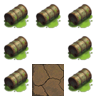
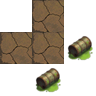
feat: added animation

diff --git a/maze_visualizer.py b/maze_visualizer.py
@@ -6,9 +6,11 @@
 #  By: rshikder, lbordana                        +#+  +:+       +#+         #
 #                                              +#+#+#+#+#+   +#+            #
 #  Created: 2026/03/21 03:32:25 by lbordana        #+#    #+#               #
-#  Updated: 2026/03/24 05:46:03 by lbordana        ###   ########.fr        #
+#  Updated: 2026/03/24 18:42:59 by lbordana        ###   ########.fr        #
 #                                                                           #
 # ************************************************************************* #
+
+from cProfile import label
 
 from mlx import Mlx
 from typing import List
@@ -42,18 +44,21 @@ class MazeVisualizer(Mlx):
                                            "A_maze_ing : Game poetry")
         self.grid = []
 
+    # def generate_menu
+
     def generate_floor(self):
         start_pos = (int((self.width / 2) - ((self.maze_width / 2) * self.tilesize * 2)),
                      int(500))
-        patchwork = Image.open(f"themes/{self.theme}/path_patch.png")
-        path = Image.new('RGBA',
+        path_patch = Image.open(f"themes/{self.theme}/path_patch.png").convert('RGBA')
+        wall_patch = Image.open(f"themes/{self.theme}/wall_patch.png").convert('RGBA')
+        path_wall_patch = Image.alpha_composite(path_patch, wall_patch)
+        path = Image.new('RGB',
                          ((self.maze_width * 2 + 1) * self.tilesize,
-                          (self.maze_height * 2 + 1) * self.tilesize),
-                         (255, 0, 0, 0))
+                          (self.maze_height * 2 + 1) * self.tilesize))
         path_width, path_height = path.size
         for w in range(0, path_width, self.tilesize):
             for h in range(0, path_height, self.tilesize):
-                path.paste(patchwork, (w, h))
+                path.paste(path_wall_patch, (w, h))
         path.save(f"themes/{self.theme}/path.png")
         new_path = image_constitution(f"themes/{self.theme}/path.png", self)
         self.mlx_put_image_to_window(self.mlx_ptr, self.win_ptr, new_path.id, start_pos[0], start_pos[1])
@@ -69,37 +74,37 @@ class MazeVisualizer(Mlx):
         for d in data:
             binary = bin(int(d[2], 16))[2:].zfill(4)
             if appending is True:
+                for letter in '0123456789ABCDEF':
+                    try:
+                        self.grid.pop(self.grid.index([d[0], d[1], letter]))
+                    except Exception:
+                        continue
                 self.grid.append([d[0], d[1], d[2]])
+                self.grid = sorted(self.grid, key=lambda item: int(f'{item[0]}{item[1]}'))
             pos = [start_pos[0] + d[0] * (self.tilesize * 2),
                    start_pos[1] + d[1] * (self.tilesize * 2)]
             wall_tile = Image.open(f"themes/{self.theme}/wall_patch.png")
             path_tile = Image.open(f"themes/{self.theme}/path_patch.png")
             wall_mask = Image.new('RGBA', (self.tilesize * 3,
                                            self.tilesize * 3), (255, 0, 0, 0))
-            wall_mask.paste(path_tile, (self.tilesize, 0))
-            wall_mask.paste(path_tile, (self.tilesize * 2, self.tilesize))
-            wall_mask.paste(path_tile, (self.tilesize, self.tilesize * 2))
-            wall_mask.paste(path_tile, (0, self.tilesize))
-            if int(binary[-1]) == 1:
-                wall_mask.paste(wall_tile, (0, 0))
-                wall_mask.paste(wall_tile, (self.tilesize, 0))
-                wall_mask.paste(wall_tile, (self.tilesize * 2, 0))
-            if int(binary[-2]) == 1:
-                wall_mask.paste(wall_tile, (self.tilesize * 2, 0))
-                wall_mask.paste(wall_tile, (self.tilesize * 2, self.tilesize))
-                wall_mask.paste(wall_tile, (self.tilesize * 2, self.tilesize * 2))
-            if int(binary[-3]) == 1:
-                wall_mask.paste(wall_tile, (0, self.tilesize * 2))
-                wall_mask.paste(wall_tile, (self.tilesize, self.tilesize * 2))
-                wall_mask.paste(wall_tile, (self.tilesize * 2, self.tilesize * 2))
-            if int(binary[-4]) == 1:
-                wall_mask.paste(wall_tile, (0, 0))
-                wall_mask.paste(wall_tile, (0, self.tilesize))
-                wall_mask.paste(wall_tile, (0, self.tilesize * 2))
+            wall_mask.paste(wall_tile, (self.tilesize, 0))
+            wall_mask.paste(wall_tile, (self.tilesize * 2, self.tilesize))
+            wall_mask.paste(wall_tile, (self.tilesize, self.tilesize * 2))
+            wall_mask.paste(wall_tile, (0, self.tilesize))
+            wall_mask.paste(path_tile, (self.tilesize, self.tilesize))
+            if int(binary[-1]) == 0:
+                wall_mask.paste(path_tile, (self.tilesize, 0))
+            if int(binary[-2]) == 0:
+                wall_mask.paste(path_tile, (self.tilesize * 2, self.tilesize))
+            if int(binary[-3]) == 0:
+                wall_mask.paste(path_tile, (self.tilesize, self.tilesize * 2))
+            if int(binary[-4]) == 0:
+                wall_mask.paste(path_tile, (0, self.tilesize))
             wall_mask.save(f"themes/{self.theme}/wall.png")
             walls = image_constitution(f"themes/{self.theme}/wall.png", self)
             self.mlx_put_image_to_window(self.mlx_ptr, self.win_ptr, walls.id, pos[0], pos[1])
             self.mlx_destroy_image(self.mlx_ptr, walls.id)
+            yield None
 
     def generate_ways(self, data=None):
         start = (int((self.width / 2) - ((self.maze_width / 2) * self.tilesize * 2)),
@@ -155,34 +160,28 @@ def change_theme(keynum, m: MazeVisualizer):
             m.theme = theme[0]
         base_assets(m)
         m.generate_floor()
-        m.generate_walls()
 
 
-def generator():  # Temporary output simalution of the algorithm
-    with open('output_maze.txt', 'r') as output:
-        data = [hex for hex in output.read().split('\n')[:-5]]
-    for row in data:
-        for col in row:
-            yield col
+def generate_maze(data: tuple):
+    m, gen = data
+    try:
+        for _ in range(10):
+            next(gen)
+    except StopIteration:
+        pass
 
 
 def maze_visualizer() -> None:
     width = 3840
     height = 2160
-    theme = 'classic'
+    theme = 'pokemon'
     m = MazeVisualizer(width, height, theme)
     m.mlx_key_hook(m.win_ptr, change_theme, m)
     base_assets(m)
-    # m.mlx_sync(m.mlx_ptr, m.SYNC_WIN_COMPLETED, m.win_ptr)
     m.generate_floor()
-    # with open('output_maze.txt', 'r') as output:
-    #     data = [hex for hex in output.read().split('\n')[:-5]]
-    # for row_nbr, row in enumerate(data):
-    #     for col_nbr, col in enumerate(row):
-    #         m.generate_walls([[col_nbr, row_nbr, col]])
-    m.generate_walls(generation)
     # m.generate_ways([[2, 3], [16, 18]])
     m.mlx_hook(m.win_ptr, 33, 0, close, m)
+    m.mlx_loop_hook(m.mlx_ptr, generate_maze, (m, m.generate_walls(generation)))
     m.mlx_loop(m.mlx_ptr)
 
 
